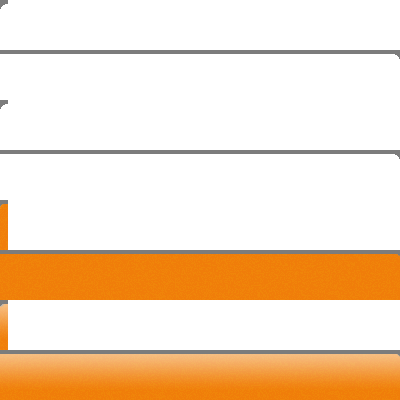
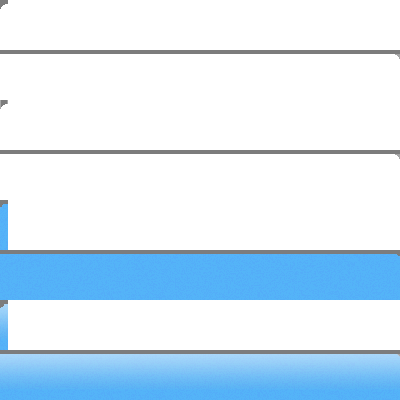
Add green as a color for testing purposes

Changed region(s): [[0.0, 0.51, 1.0, 1.0], [0.99, 0.36, 1.0, 0.39], [0.99, 0.12, 1.0, 0.15]]

diff --git a/to.etc.domui/src/resources/themes/green.color.js b/to.etc.domui/src/resources/themes/green.color.js
@@ -1,4 +1,4 @@
-main_color="#54b4f8"; //Main blue
+main_color="#43b761"; //Main green
 header_bg="#7c7c7c";
 
 bg_color="#ffffff";
@@ -98,18 +98,6 @@ io_blk_wait = "io-blk-wait.gif";/* Icon definition for DomUI icons */
 data_pager_icons= "data-pager-icons.png";
 dp_icon_size_x = 32;
 dp_icon_size_y = 19;
-
-//-- Tab panel image
-tab_pnl_img = "tab-all-domui.png";
-/* Icon definition for DomUI icons */
-
-/*** Data Pager buttons ***/
-data_pager_icons= "data-pager-icons.png";
-dp_icon_size_x = 32;
-dp_icon_size_y = 19;
-
-//-- DefaultButton image
-button_img= "defaultButton.orange.png";
 
 //-- Tab panel image
 tab_pnl_img = "tab-all-domui.png";
